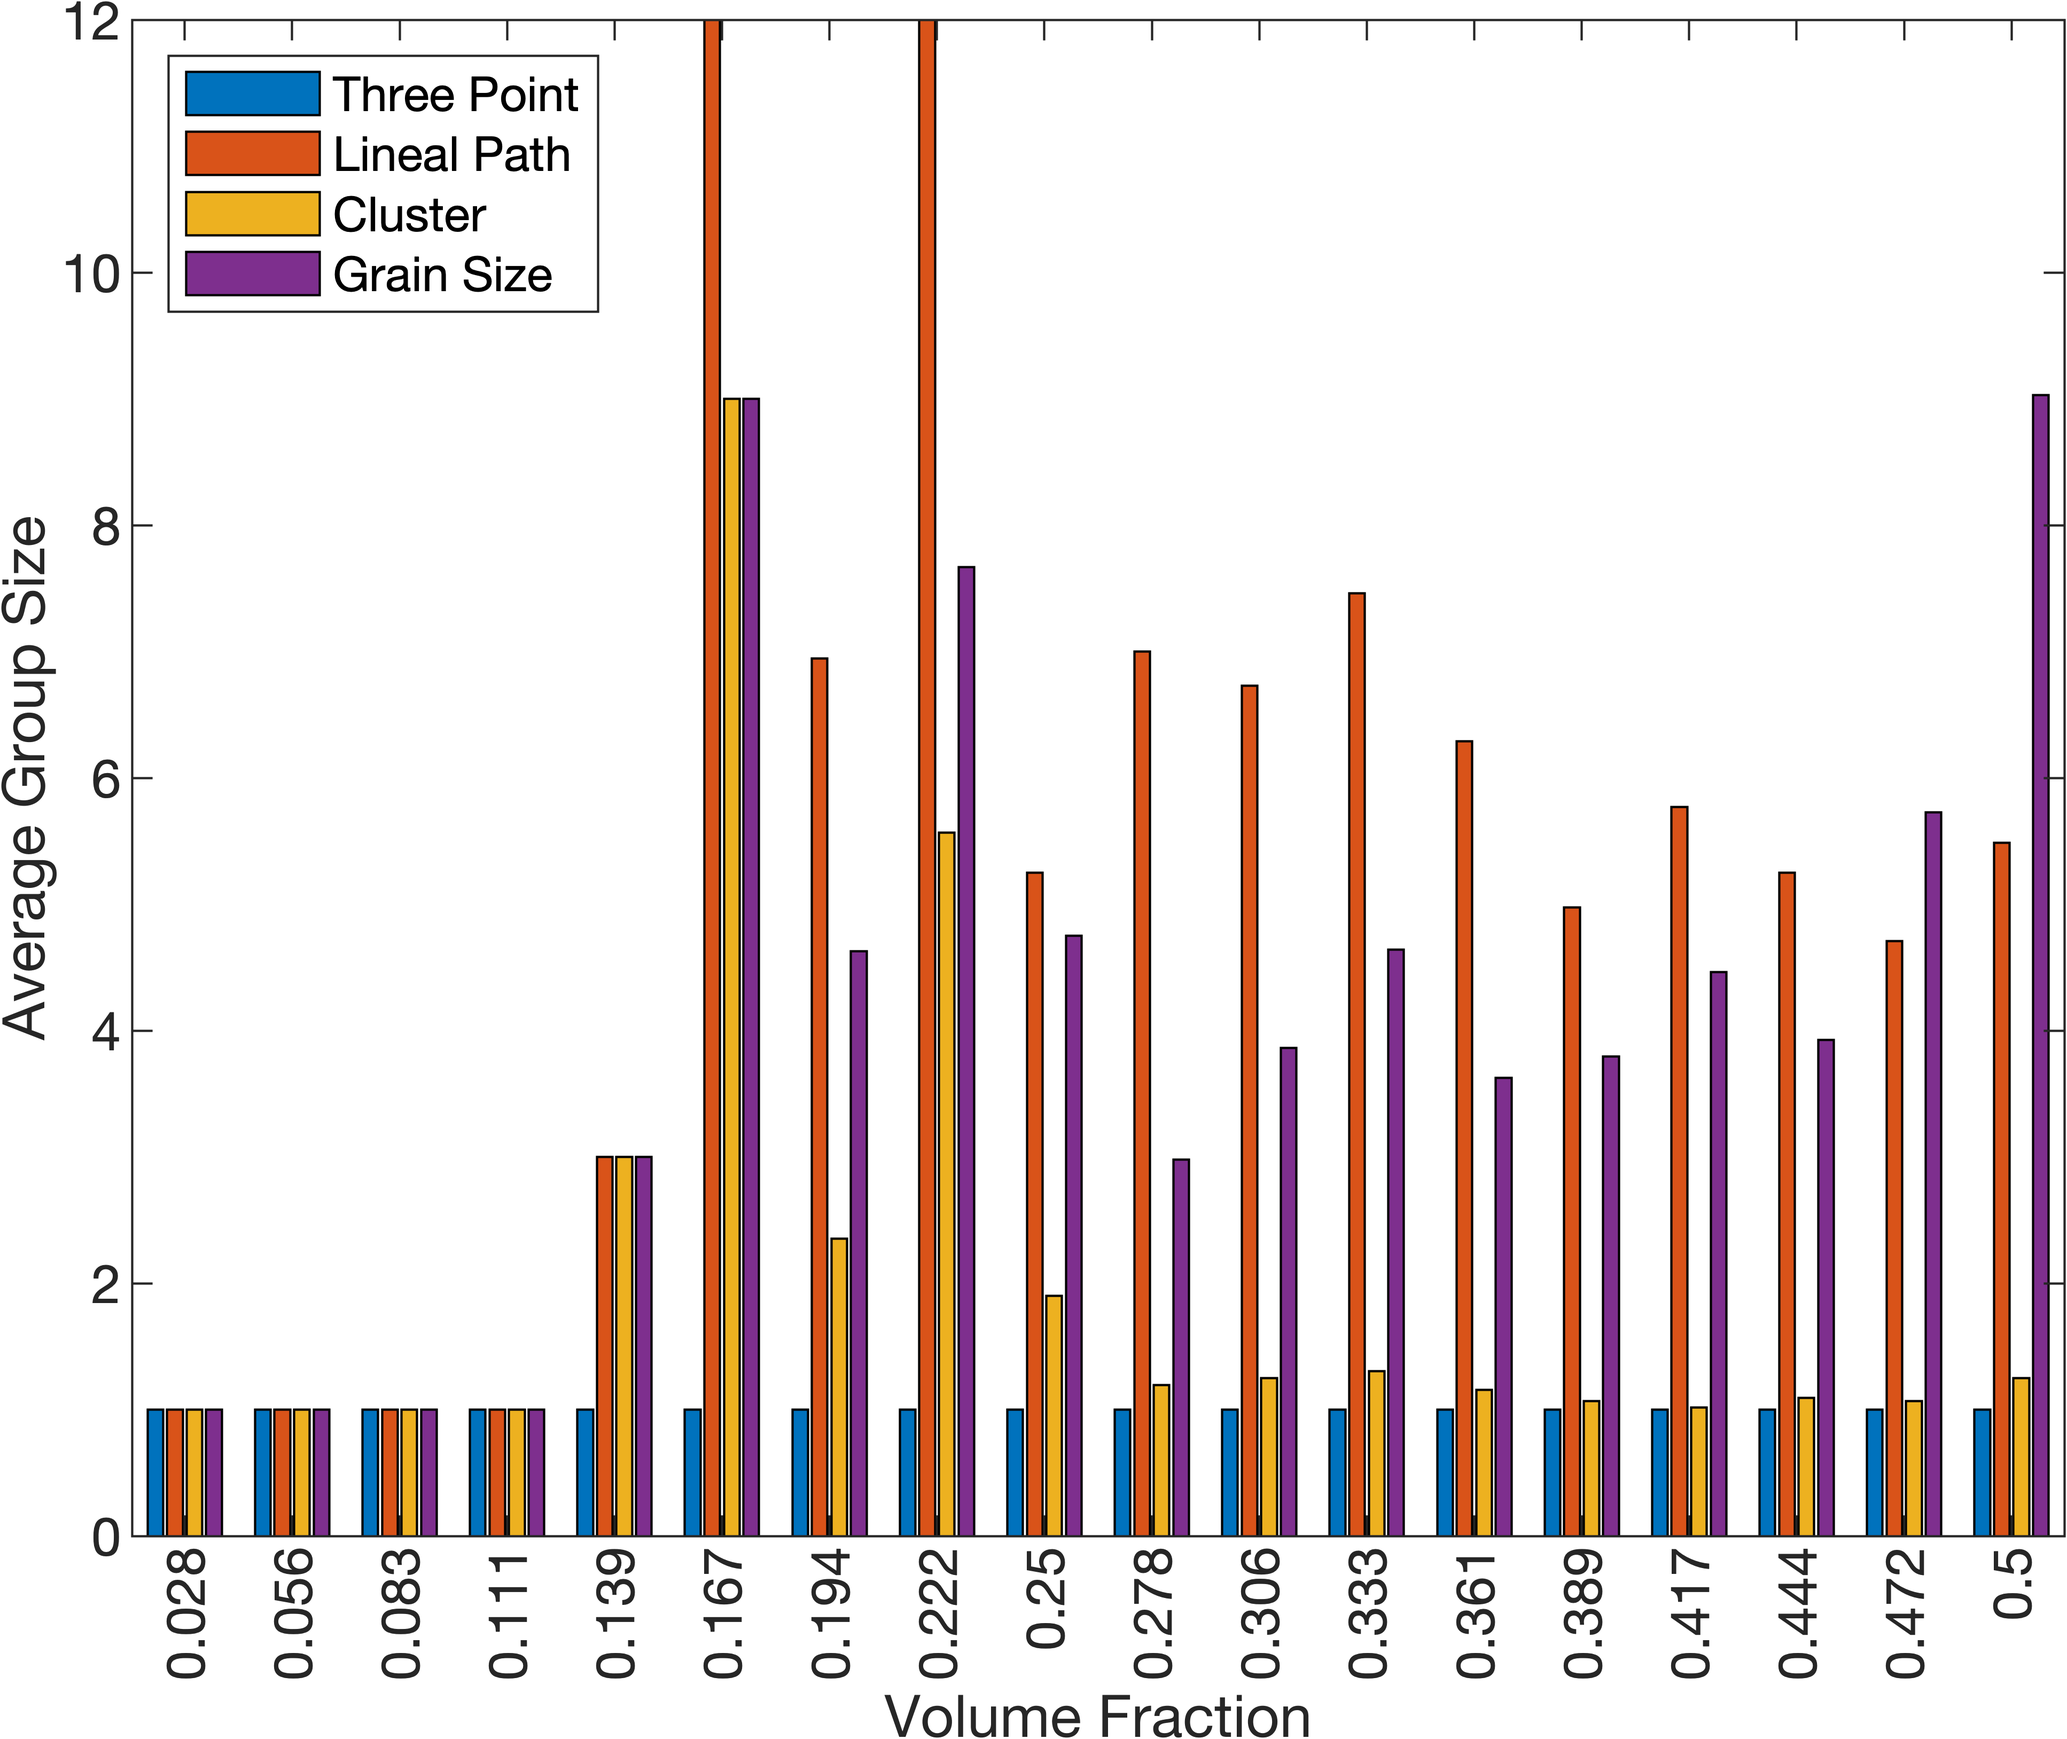
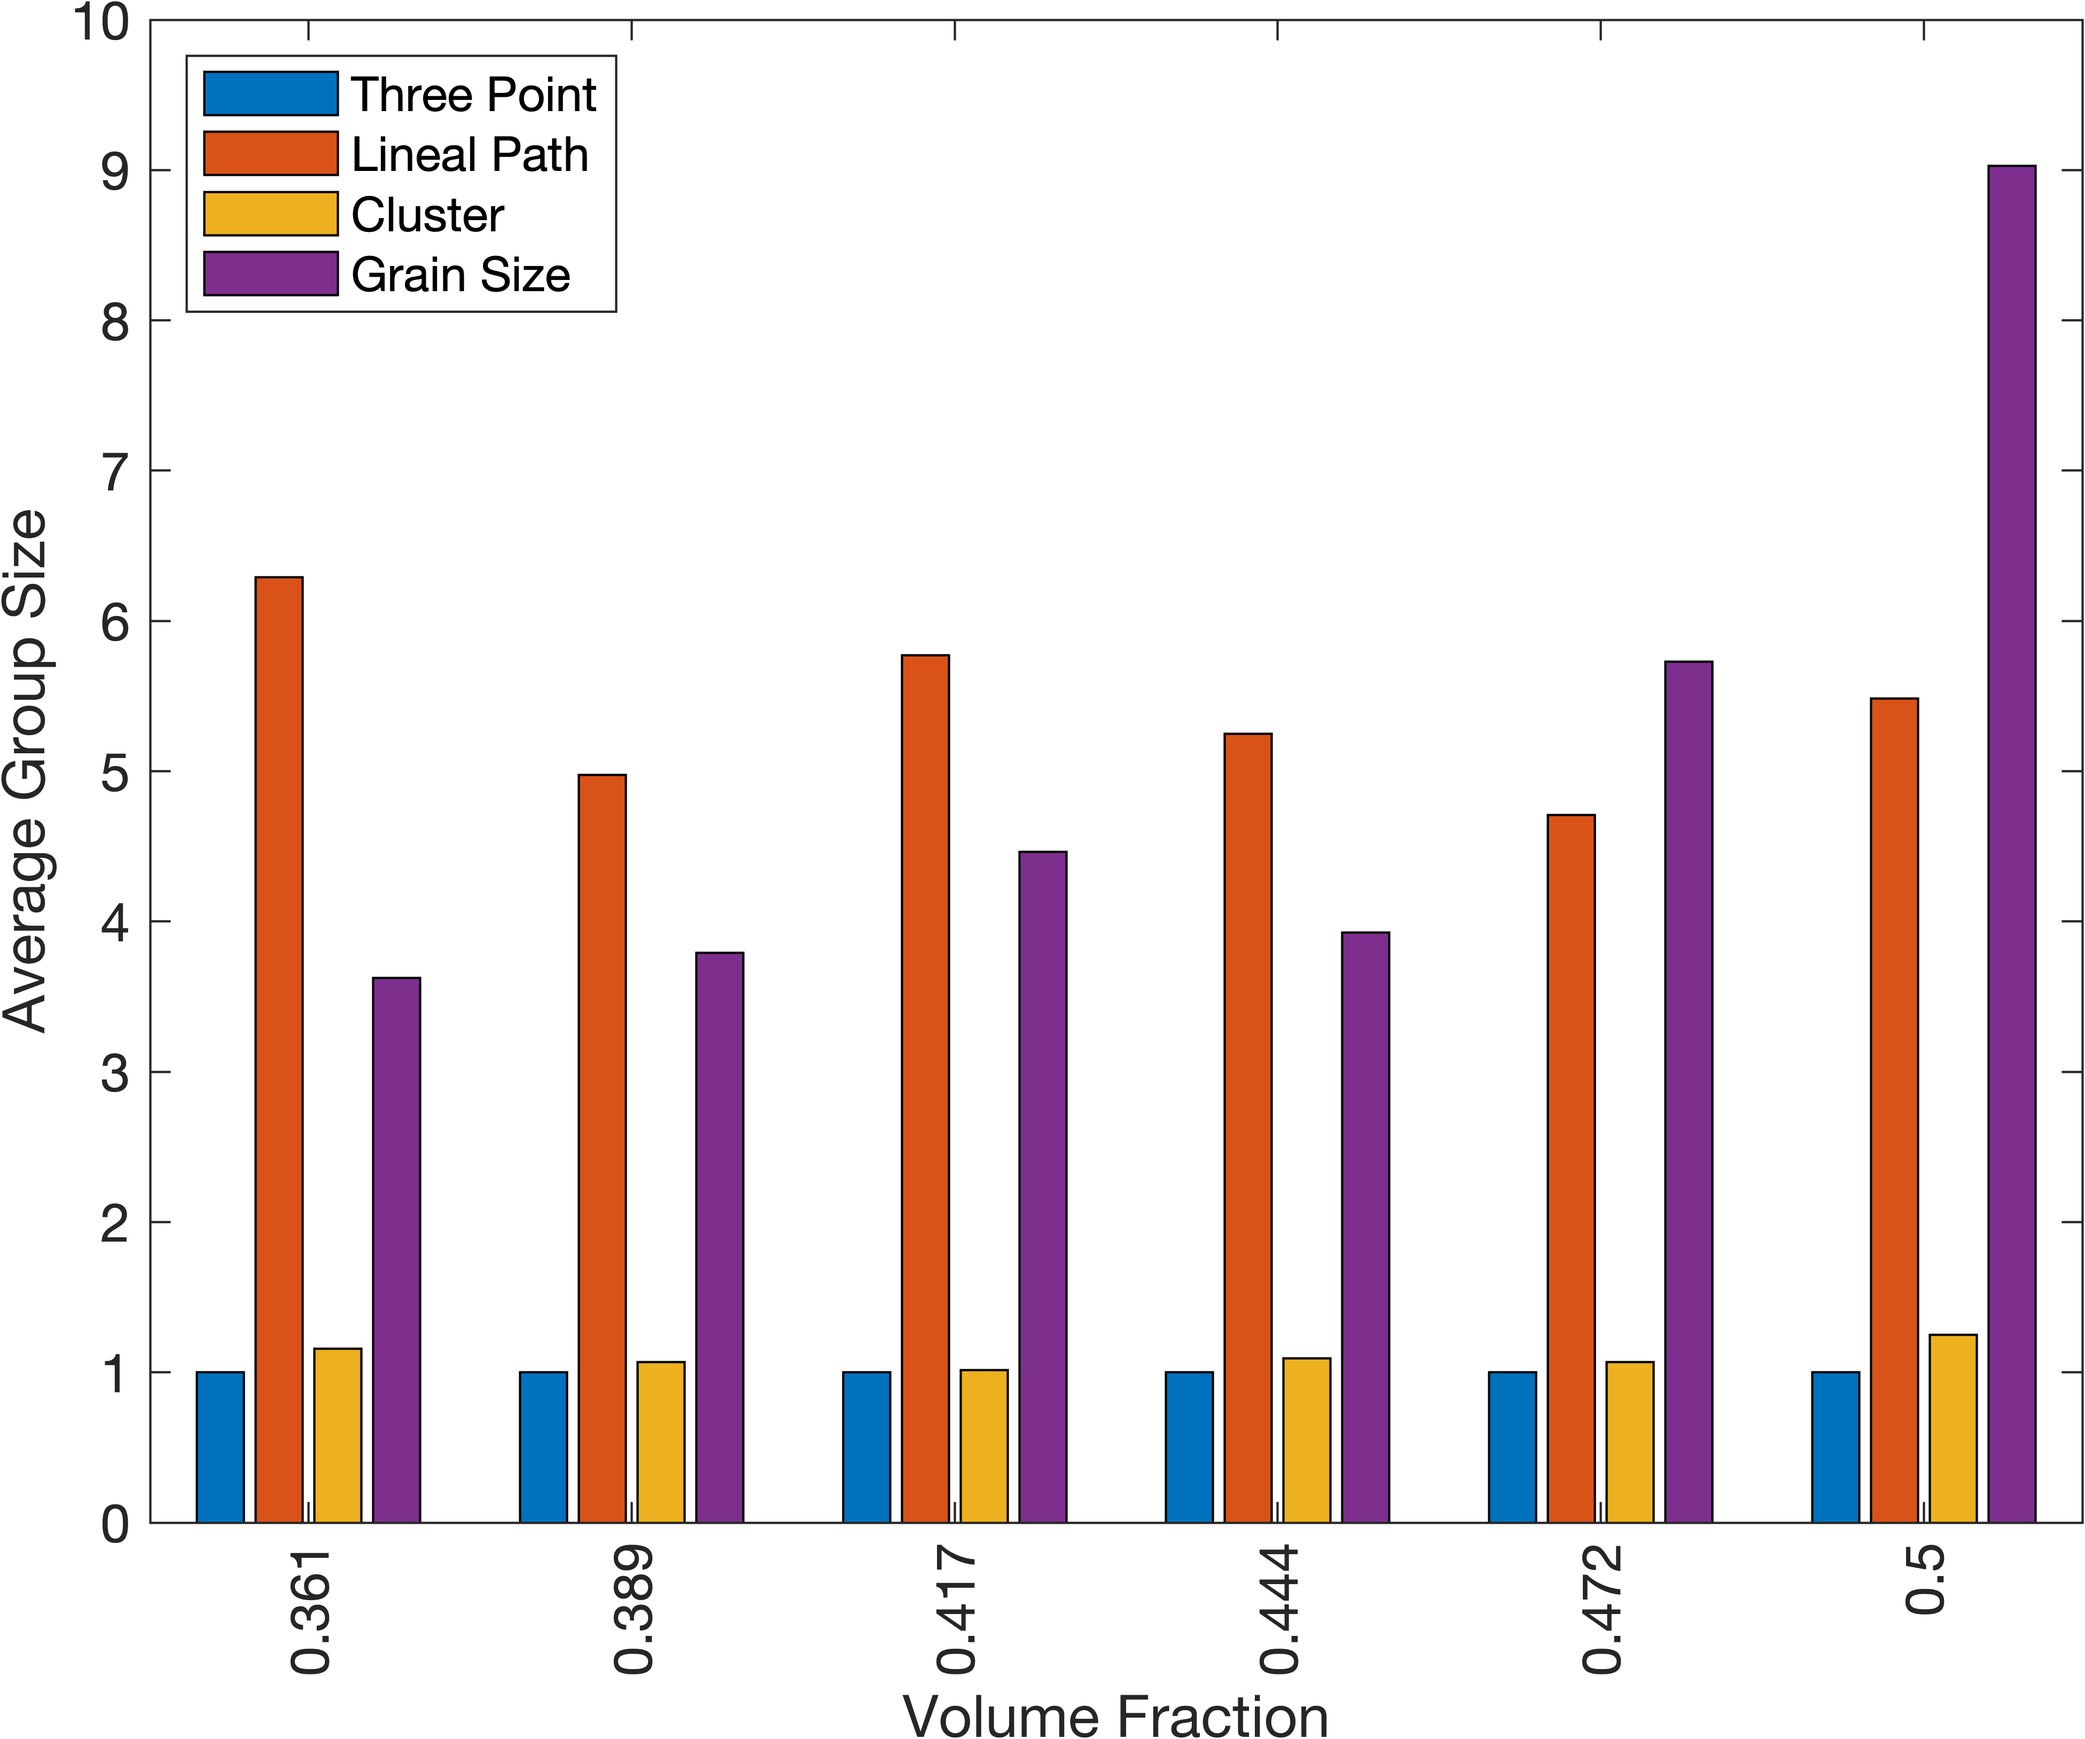
Updated degeneracy breaking plots

diff --git a/analyzeDegeneracyBreaking.m b/analyzeDegeneracyBreaking.m
@@ -2,7 +2,7 @@
 tic
 
 ns = [6];
-vfs = {[1 2 3 4 5 6 7 8 9 10 11 12 13 14 15 16 17 18]};
+vfs = {[13 14 15 16 17 18]};
 curr_dir = pwd;
 outputs_path = fullfile(curr_dir, "Outputs/");
 tps_avg_group_sizes_6 = zeros(size(vfs{end}));
@@ -77,7 +77,7 @@ toc
 tic
 
 ns = [6];
-vfs = {[1 2 3 4 5 6 7 8 9 10 11 12 13 14 15 16 17 18]};
+vfs = {[13 14 15 16 17 18]};
 curr_dir = pwd;
 outputs_path = fullfile(curr_dir, "Outputs/");
 lpf_avg_group_sizes_6 = zeros(size(vfs{end}));
@@ -153,7 +153,7 @@ toc
 tic
 
 ns = [6];
-vfs = {[1 2 3 4 5 6 7 8 9 10 11 12 13 14 15 16 17 18]};
+vfs = {[13 14 15 16 17 18]};
 curr_dir = pwd;
 outputs_path = fullfile(curr_dir, "Outputs/");
 cf_avg_group_sizes_6 = zeros(size(vfs{end}));
@@ -229,7 +229,7 @@ toc
 tic
 
 ns = [6];
-vfs = {[1 2 3 4 5 6 7 8 9 10 11 12 13 14 15 16 17 18]};
+vfs = {[13 14 15 16 17 18]};
 curr_dir = pwd;
 outputs_path = fullfile(curr_dir, "Outputs/");
 gsd_avg_group_sizes_6 = zeros(size(vfs{end}));
@@ -309,7 +309,7 @@ plot_data_group_sizes = [tps_avg_group_sizes_6; lpf_avg_group_sizes_6; cf_avg_gr
 plot_data_num_groups = [tps_avg_num_groups_6; lpf_avg_num_groups_6; cf_avg_num_groups_6; gsd_avg_num_groups_6]';
 
 num_6 = length(vfs{end});
-labels_6 = linspace(0.5/num_6, 0.5, num_6);
+labels_6 = linspace(13/36, 0.5, num_6);
 
 f=figure;
 bar(plot_data_group_sizes);
